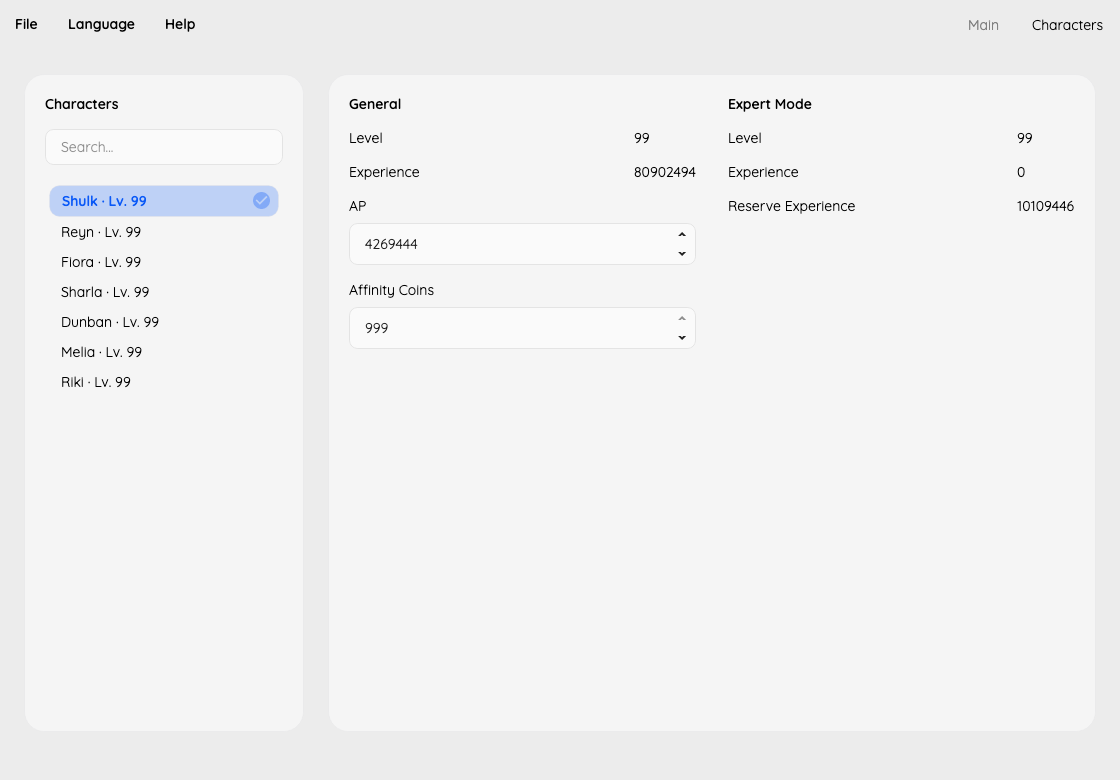
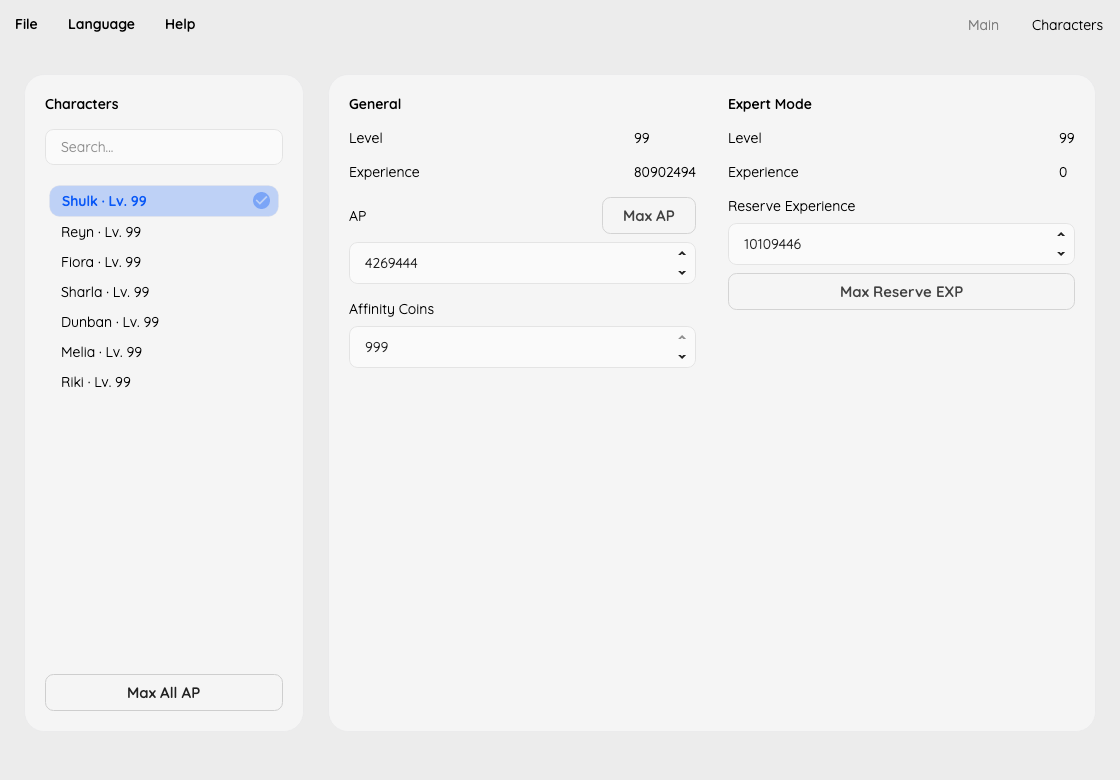
feat: add character ap maximum and reserve exp controls

diff --git a/test/GuiProgram.cs b/test/GuiProgram.cs
@@ -3,6 +3,7 @@ using Avalonia;
 using Avalonia.Controls;
 using Avalonia.Controls.Primitives;
 using Avalonia.Headless;
+using Avalonia.Interactivity;
 using Avalonia.Threading;
 using XbdeEditor.Core;
 using XbdeEditor.Gui;
@@ -46,11 +47,18 @@ try
     Dispatcher.UIThread.RunJobs();
     var ap = window.FindControl<NumericUpDown>("APInput")!;
     var coins = window.FindControl<NumericUpDown>("AffinityCoinsInput")!;
+    var reserve = window.FindControl<NumericUpDown>("ReserveExperienceInput")!;
+    Check(ap.Maximum == CharacterRecord.MaximumAP && reserve.Maximum == CharacterRecord.MaximumReserveExperience,
+        "GUI resource limits differ from the core.");
     Check(window.FindControl<TextBlock>("LevelValue")!.Text == "20", "Character level mapping differs.");
     Check(window.FindControl<ListBox>("CharacterList")!.ItemsPanel.Build() is VirtualizingStackPanel { CacheLength: 1 }, "Virtual list buffer is missing.");
     ap.Value = 321;
     coins.Value = 999;
     Check(window.Session.Document.GetCharacter(1).AP == 321 && window.Session.Document.GetCharacter(1).AffinityCoins == 999, "Character resource edits are disconnected.");
+    reserve.Value = 10000;
+    Check(window.Session.Document.GetCharacter(1).ReserveExperience == 10000, "Reserve EXP input is disconnected.");
+    Check(window.Session.Document.GetCharacter(1).Level == 20 && window.Session.Document.GetCharacter(1).Experience == 0,
+        "Reserve EXP input altered level or accumulated EXP.");
     foreach (string language in UiLanguage.Languages.Keys)
     {
         window.SetLanguage("zh-Hans");
@@ -60,6 +68,11 @@ try
         Check(window.FindControl<TextBlock>("CampaignValue")!.Text == UiLanguage.Get("MainStory"), "Campaign translation is stale.");
         Check(window.Session.Document.Money == 123, "Language switch changed edits.");
         Check(window.Session.Document.GetCharacter(1).AP == 321, "Language switch changed character edits.");
+        Check(window.Session.Document.GetCharacter(1).ReserveExperience == 10000, "Language switch changed reserve EXP.");
+        Check(window.FindControl<Button>("MaxAllAPButton")!.Content?.ToString() == UiLanguage.Get("MaxAllAP"),
+            "Bulk AP button translation is stale.");
+        Check(window.FindControl<Button>("MaxReserveExperienceButton")!.Content?.ToString() == UiLanguage.Get("MaxReserveExperience"),
+            "Reserve EXP button translation is stale.");
     }
     window.SetLanguage("en");
     var search = window.FindControl<TextBox>("CharacterSearch")!;
@@ -68,6 +81,17 @@ try
     Check(window.FindControl<ListBox>("CharacterList")!.ItemCount == 0, "Character search did not filter.");
     search.Text = "";
     Dispatcher.UIThread.RunJobs();
+    window.FindControl<Button>("MaxAPButton")!.RaiseEvent(new RoutedEventArgs(Button.ClickEvent));
+    Check(window.Session.Document.GetCharacter(1).AP == CharacterRecord.MaximumAP
+        && window.Session.Document.GetCharacter(2).AP == 0, "Single-character AP maximum affected another member.");
+    window.FindControl<Button>("MaxReserveExperienceButton")!.RaiseEvent(new RoutedEventArgs(Button.ClickEvent));
+    Check(window.Session.Document.GetCharacter(1).ReserveExperience == CharacterRecord.MaximumReserveExperience,
+        "Reserve EXP maximum button is disconnected.");
+    search.Text = "Shulk";
+    window.FindControl<Button>("MaxAllAPButton")!.RaiseEvent(new RoutedEventArgs(Button.ClickEvent));
+    Check(window.Session.Document.Characters.All(member => member.AP == CharacterRecord.MaximumAP),
+        "Bulk AP only changed the filtered character.");
+    search.Text = "";
     string output = Path.Combine(temporary, "edited.sav");
     Check(window.SaveTo(output), "GUI save failed.");
     Check(SaveDocument.Parse(File.ReadAllBytes(output)).Money == 123, "Saved amount differs.");
@@ -85,6 +109,23 @@ try
     Check(!window.FindControl<StackPanel>("AffinityCoinsField")!.IsVisible,
         "An ambiguous campaign exposes coin editing.");
     Check(!window.Session!.HasChanges, "Opening an ambiguous campaign altered it.");
+    byte[] high = (byte[])ambiguous.Clone();
+    BinaryPrimitives.WriteUInt32LittleEndian(high.AsSpan(0x152370), uint.MaxValue);
+    BinaryPrimitives.WriteUInt32LittleEndian(high.AsSpan(0x15245c), uint.MaxValue);
+    string highPath = Path.Combine(temporary, "high.sav");
+    File.WriteAllBytes(highPath, high);
+    Check(window.LoadSave(highPath), "Could not open existing high resource values.");
+    Check(!window.Session!.HasChanges && ap.Value == uint.MaxValue && reserve.Value == uint.MaxValue,
+        "Loading clamped an existing high amount.");
+    ap.Value = uint.MaxValue - 1;
+    Check(!window.SaveTo(Path.Combine(temporary, "invalid-high.sav")), "A new over-cap AP value was saved.");
+    Check(window.Session.Document.GetCharacter(1).AP == uint.MaxValue,
+        "A rejected over-cap AP draft mutated the document.");
+    ap.Value = uint.MaxValue;
+    reserve.Value = 123;
+    Check(window.Session.Document.GetCharacter(1).AP == uint.MaxValue && window.Session.Document.GetCharacter(1).ReserveExperience == 123,
+        "Reserve EXP edit rejected or normalized unchanged high AP.");
+    Check(window.SaveTo(highPath), "Could not save high-value fixture.");
     if (args is ["--screenshot", var realSave, var screenshot, .. var page])
     {
         Check(window.LoadSave(realSave), "Could not open the screenshot save.");

diff --git a/gui/MainWindow.Characters.cs b/gui/MainWindow.Characters.cs
@@ -1,4 +1,5 @@
 using Avalonia.Controls;
+using Avalonia.Interactivity;
 using XbdeEditor.Core;
 using XbdeEditor.Gui.Localization;
 
@@ -35,12 +36,15 @@ public partial class MainWindow
             _selectedCharacter = (CharacterList.SelectedItem as CharacterRow)?.Id;
             _character = _selectedCharacter is { } id ? Session?.Document.GetCharacter(id) : null;
             CharacterInputs.IsEnabled = _character is not null;
+            MaxAllAPButton.IsEnabled = Session is not null;
             LevelValue.Text = _character?.Level.ToString();
             ExperienceValue.Text = _character?.Experience.ToString();
             ExpertLevelValue.Text = _character?.ExpertLevel.ToString();
             ExpertExperienceValue.Text = _character?.ExpertExperience.ToString();
-            ReserveExperienceValue.Text = _character?.ReserveExperience.ToString();
+            APInput.Maximum = Math.Max(CharacterRecord.MaximumAP, _character?.AP ?? 0);
             APInput.Value = _character?.AP;
+            ReserveExperienceInput.Maximum = Math.Max(CharacterRecord.MaximumReserveExperience, _character?.ReserveExperience ?? 0);
+            ReserveExperienceInput.Value = _character?.ReserveExperience;
             AffinityCoinsField.IsVisible = _character?.UsesAffinityCoins ?? true;
             AffinityCoinsInput.Maximum = Math.Max(999, _character?.AffinityCoins ?? 0);
             AffinityCoinsInput.Value = _character?.AffinityCoins;
@@ -60,11 +64,17 @@ public partial class MainWindow
     private bool CharacterValuesValid()
     {
         if (_character is null) return true;
-        if (!WholeNumber(APInput.Value, out _)) return false;
+        if (!ValidResource(APInput.Value, CharacterRecord.MaximumAP, _character.AP)) return false;
+        if (!ValidResource(ReserveExperienceInput.Value, CharacterRecord.MaximumReserveExperience, _character.ReserveExperience)) return false;
         if (!_character.UsesAffinityCoins) return true;
-        return WholeNumber(AffinityCoinsInput.Value, out uint coins)
-            && (coins <= 999 || coins == _character.AffinityCoins);
+        return ValidResource(AffinityCoinsInput.Value, 999, _character.AffinityCoins);
     }
+
+    private static bool ValidResource(decimal? value, uint maximum, uint original) =>
+        WholeNumber(value, out uint number) && (number <= maximum || number == original);
+
+    private static uint? ChangedResource(decimal? value, uint original) =>
+        WholeNumber(value, out uint number) && number != original ? number : null;
 
     private void CharacterResources_Changed(object? sender, NumericUpDownValueChangedEventArgs e)
     {
@@ -74,11 +84,39 @@ public partial class MainWindow
             ShowStatus(UiLanguage.Get("InvalidValue"));
             return;
         }
-        _ = WholeNumber(APInput.Value, out uint ap);
-        uint? coins = null;
-        if (_character.UsesAffinityCoins && WholeNumber(AffinityCoinsInput.Value, out uint enteredCoins)
-            && enteredCoins != _character.AffinityCoins) coins = enteredCoins;
-        _character.SetResources(ap, coins);
+        _character.SetResources(
+            ap: ChangedResource(APInput.Value, _character.AP),
+            affinityCoins: _character.UsesAffinityCoins ? ChangedResource(AffinityCoinsInput.Value, _character.AffinityCoins) : null,
+            reserveExperience: ChangedResource(ReserveExperienceInput.Value, _character.ReserveExperience));
+        ShowStatus(null);
+    }
+
+    private void MaxAP_Click(object? sender, RoutedEventArgs e)
+    {
+        if (_character is { } character)
+            ApplyCharacterEdit(() => character.SetResources(ap: CharacterRecord.MaximumAP));
+    }
+
+    private void MaxReserveExperience_Click(object? sender, RoutedEventArgs e)
+    {
+        if (_character is { } character)
+            ApplyCharacterEdit(() => character.SetResources(reserveExperience: CharacterRecord.MaximumReserveExperience));
+    }
+
+    private void MaxAllAP_Click(object? sender, RoutedEventArgs e)
+    {
+        if (Session is not null) ApplyCharacterEdit(Session.Document.MaxAllAP);
+    }
+
+    private void ApplyCharacterEdit(Action edit)
+    {
+        if (!CharacterValuesValid())
+        {
+            ShowStatus(UiLanguage.Get("InvalidValue"));
+            return;
+        }
+        edit();
+        RefreshCharacters();
         ShowStatus(null);
     }
 }

diff --git a/README.md b/README.md
@@ -8,7 +8,7 @@ Edit Xenoblade Chronicles: Definitive Edition saves, including Future Connected.
 
 - **Save files:** Open compatible `bfsgame*.sav` and `bfsmeria*.sav` game saves, inspect the saved party and create byte-identical copies. System saves and thumbnails are not editable.
 - **Main:** Edit money and Noponstones. Save and Save As are available in the File menu; unrecognized layouts are rejected and unknown bytes remain untouched.
-- **Characters:** Search joined characters, edit AP and main-story Affinity Coins, and inspect saved levels, experience and Expert Mode records. Character names switch with the interface language. Future Connected does not expose Affinity Coin editing.
+- **Characters:** Search joined characters, edit AP, main-story Affinity Coins and Expert Mode reserve EXP. Maximize AP for one character or everyone already joined, or fill a character's reserve EXP. Saved levels and other experience records remain available for inspection. Character names switch with the interface language. Future Connected does not expose Affinity Coin editing.
 - **CLI:** Inspect saves as JSON, copy them or edit resources without changing unknown data.
 
 English is the default language. The interface also supports Simplified Chinese,
@@ -28,9 +28,11 @@ dotnet run --project cli/Cli.csproj -- copy /path/to/bfsgame00.sav /path/to/copy
 Resource inputs currently validate unsigned 32-bit storage bounds, not an
 independently verified in-game currency cap. Existing high amounts are preserved
 on opening; they are not silently normalized.
-AP uses the same storage-bound validation. Affinity Coin edits are restricted
-to 0–999. Level and Expert Mode edits remain disabled until their linked
-progression rules have been verified.
+AP edits are restricted to 0–99,999,999, Affinity Coins to 0–999, and Expert Mode
+reserve EXP to 0–199,999,998. Existing higher amounts are preserved unless edited.
+Level and current-EXP edits remain disabled until their linked progression rules
+have been fully verified. Changing reserve EXP does not immediately change a
+character's level; it changes the pool available to spend in-game in Expert Mode.
 Campaign identification currently uses joined characters. When only characters
 shared by both campaigns are present, the campaign is shown as unconfirmed and
 Affinity Coin editing is unavailable.

diff --git a/docs/roadmap.md b/docs/roadmap.md
@@ -6,6 +6,7 @@ Each feature is committed separately with core tests and matching CLI support.
 - [x] Inspect/copy CLI and cross-platform CI.
 - [x] Main panel: money and Noponstones, nine UI languages and shared save actions.
 - [x] Characters: AP/Affinity Coin editing and general/Expert Mode inspection.
+- [x] Characters: verified AP cap, single/bulk AP maximum and reserve EXP editing.
 - [ ] Characters: validated level/experience and Expert Mode editing.
 - [ ] Arts and skills: limits, unlock state and learned progress.
 - [ ] Equipment: inventory references, gems and appearance.
@@ -25,3 +26,6 @@ dotnet run --project test/Core.Test.csproj -- --save-directory /path/to/saves
 ```
 
 Round-trip and byte-diff tests do not replace loading an edited copy in-game.
+
+See [progression validation](progression.md) for the verified resource limits and
+the level/EXP operations that still remain read-only.
